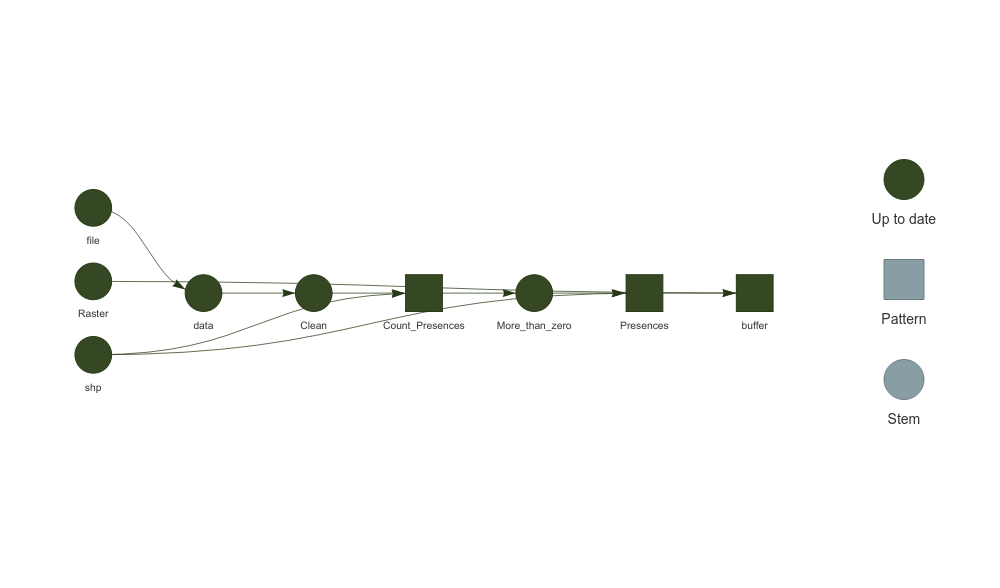
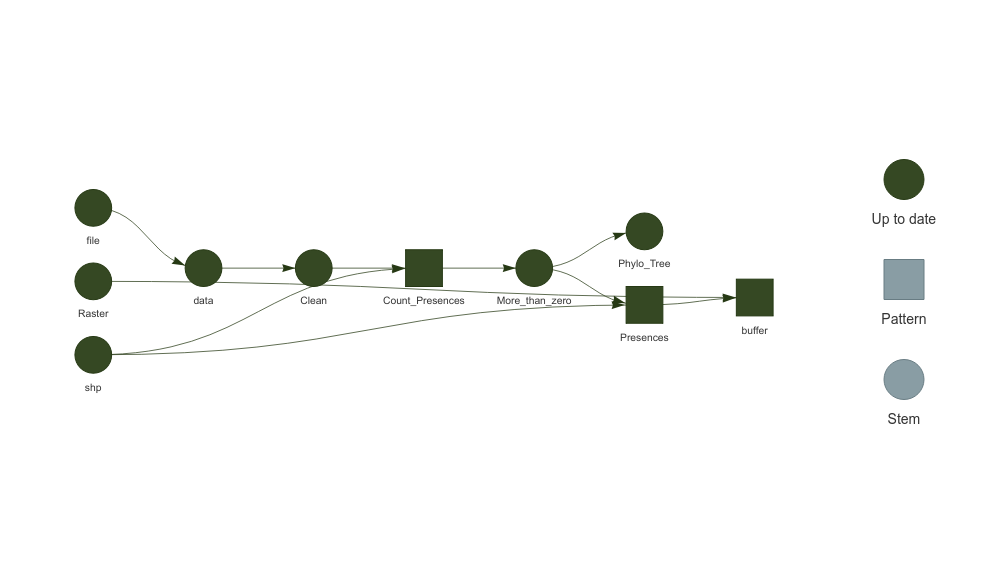
Added gitignore and vignettes bibliography

diff --git a/README.md b/README.md
@@ -285,64 +285,66 @@ run_workflow(
 )
 #> ▶ dispatched target Raster
 #> ▶ dispatched target shp
-#> ● completed target Raster [4.523 seconds]
+#> ● completed target shp [4.91 seconds]
 #> ▶ dispatched target file
-#> ● completed target shp [0 seconds]
-#> ● completed target file [0 seconds]
+#> ● completed target file [0.001 seconds]
 #> ▶ dispatched target data
-#> ● completed target data [0.357 seconds]
+#> ● completed target Raster [5.257 seconds]
+#> ● completed target data [0.485 seconds]
 #> ▶ dispatched target Clean
-#> ● completed target Clean [1.185 seconds]
+#> ● completed target Clean [1.279 seconds]
 #> ▶ dispatched branch Count_Presences_33538e94b3809372
 #> ▶ dispatched branch Count_Presences_52d72a5ad405e933
-#> ● completed branch Count_Presences_33538e94b3809372 [0.149 seconds]
+#> ● completed branch Count_Presences_33538e94b3809372 [0.144 seconds]
 #> ▶ dispatched branch Count_Presences_e70f77d9439a4770
-#> ● completed branch Count_Presences_52d72a5ad405e933 [0.057 seconds]
+#> ● completed branch Count_Presences_e70f77d9439a4770 [0.07 seconds]
 #> ▶ dispatched branch Count_Presences_dea4ef8633a449a1
-#> ● completed branch Count_Presences_e70f77d9439a4770 [0.029 seconds]
+#> ● completed branch Count_Presences_52d72a5ad405e933 [0.261 seconds]
 #> ▶ dispatched branch Count_Presences_69210fc440d13855
 #> ● completed branch Count_Presences_dea4ef8633a449a1 [0.031 seconds]
 #> ▶ dispatched branch Count_Presences_a61be030e01ebaf5
-#> ● completed branch Count_Presences_69210fc440d13855 [0.026 seconds]
+#> ● completed branch Count_Presences_69210fc440d13855 [0.043 seconds]
 #> ▶ dispatched branch Count_Presences_974105e269324d3e
-#> ● completed branch Count_Presences_a61be030e01ebaf5 [0.028 seconds]
+#> ● completed branch Count_Presences_974105e269324d3e [0.04 seconds]
 #> ▶ dispatched branch Count_Presences_37d1f8d5f74d852c
-#> ● completed branch Count_Presences_974105e269324d3e [0.036 seconds]
-#> ● completed branch Count_Presences_37d1f8d5f74d852c [0.035 seconds]
+#> ● completed branch Count_Presences_a61be030e01ebaf5 [0.127 seconds]
+#> ● completed branch Count_Presences_37d1f8d5f74d852c [0.036 seconds]
 #> ● completed pattern Count_Presences
 #> ▶ dispatched target More_than_zero
-#> ● completed target More_than_zero [0.001 seconds]
+#> ● completed target More_than_zero [0.002 seconds]
 #> ▶ dispatched branch Presences_c112b37cd15959d6
 #> ▶ dispatched branch Presences_af64bac105a08467
-#> ● completed branch Presences_c112b37cd15959d6 [0.684 seconds]
-#> ▶ dispatched branch buffer_626a53b08dfe709d
-#> ● completed branch Presences_af64bac105a08467 [0.313 seconds]
+#> ● completed branch Presences_af64bac105a08467 [0.42 seconds]
 #> ▶ dispatched branch buffer_0e19b8cb545404d2
-#> ● completed branch buffer_626a53b08dfe709d [0.108 seconds]
+#> ● completed branch buffer_0e19b8cb545404d2 [0.079 seconds]
 #> ▶ dispatched branch Presences_daf8d6353bc80f0c
-#> ● completed branch buffer_0e19b8cb545404d2 [0.236 seconds]
+#> ● completed branch Presences_c112b37cd15959d6 [0.651 seconds]
+#> ▶ dispatched branch buffer_626a53b08dfe709d
+#> ● completed branch buffer_626a53b08dfe709d [0.108 seconds]
 #> ▶ dispatched branch Presences_310adeccf6b44725
-#> ● completed branch Presences_daf8d6353bc80f0c [0.666 seconds]
-#> ▶ dispatched branch buffer_edb09c8ec5c9a988
-#> ● completed branch Presences_310adeccf6b44725 [0.367 seconds]
+#> ● completed branch Presences_310adeccf6b44725 [0.406 seconds]
 #> ▶ dispatched branch buffer_b226446ac3154351
-#> ● completed branch buffer_edb09c8ec5c9a988 [0.043 seconds]
+#> ● completed branch Presences_daf8d6353bc80f0c [0.709 seconds]
+#> ▶ dispatched branch buffer_edb09c8ec5c9a988
+#> ● completed branch buffer_b226446ac3154351 [0.24 seconds]
 #> ▶ dispatched branch Presences_e65f4227e8299cc4
-#> ● completed branch buffer_b226446ac3154351 [0.028 seconds]
+#> ● completed branch buffer_edb09c8ec5c9a988 [0.278 seconds]
 #> ▶ dispatched branch Presences_d4b9dc68293bd5b2
-#> ● completed branch Presences_e65f4227e8299cc4 [0.356 seconds]
-#> ▶ dispatched branch buffer_0a8436ee3d4f2644
-#> ● completed branch Presences_d4b9dc68293bd5b2 [0.333 seconds]
+#> ● completed branch Presences_d4b9dc68293bd5b2 [0.408 seconds]
 #> ▶ dispatched branch buffer_cae8301e59fc4e01
-#> ● completed branch buffer_0a8436ee3d4f2644 [0.035 seconds]
+#> ● completed branch Presences_e65f4227e8299cc4 [0.504 seconds]
+#> ▶ dispatched branch buffer_0a8436ee3d4f2644
+#> ● completed branch buffer_cae8301e59fc4e01 [0.033 seconds]
 #> ▶ dispatched branch Presences_88937156c1302a12
-#> ● completed branch buffer_cae8301e59fc4e01 [0.028 seconds]
-#> ● completed branch Presences_88937156c1302a12 [0.294 seconds]
+#> ● completed branch buffer_0a8436ee3d4f2644 [0.041 seconds]
+#> ▶ dispatched target Phylo_Tree
+#> ● completed branch Presences_88937156c1302a12 [0.348 seconds]
 #> ● completed pattern Presences
 #> ▶ dispatched branch buffer_a0190cbfdf5f6f1f
-#> ● completed branch buffer_a0190cbfdf5f6f1f [0.032 seconds]
+#> ● completed branch buffer_a0190cbfdf5f6f1f [0.037 seconds]
 #> ● completed pattern buffer
-#> ▶ ended pipeline [12.674 seconds]
+#> ● completed target Phylo_Tree [28.396 seconds]
+#> ▶ ended pipeline [40.266 seconds]
 ```
 
 <img src="man/figures/README-run_workflow-1.png" width="100%" />
@@ -356,7 +358,8 @@ using the provided filter expression. 3- Cleans the species names to
 match the GBIF taxonomic backbone. 4- Counts the species presences
 within the specified geographic area (in this case, Aarhus). 5-
 Generates a buffer around the species presences within the specified
-distance, for a template raster. 6- Generates a visual representation of
+distance, for a template raster. 6- Generates a phyllogenetic tree for
+the species in the species list. 7- Generates a visual representation of
 the workflow (if plot = TRUE).
 
 You can monitor the progress of the workflow and visualize the
